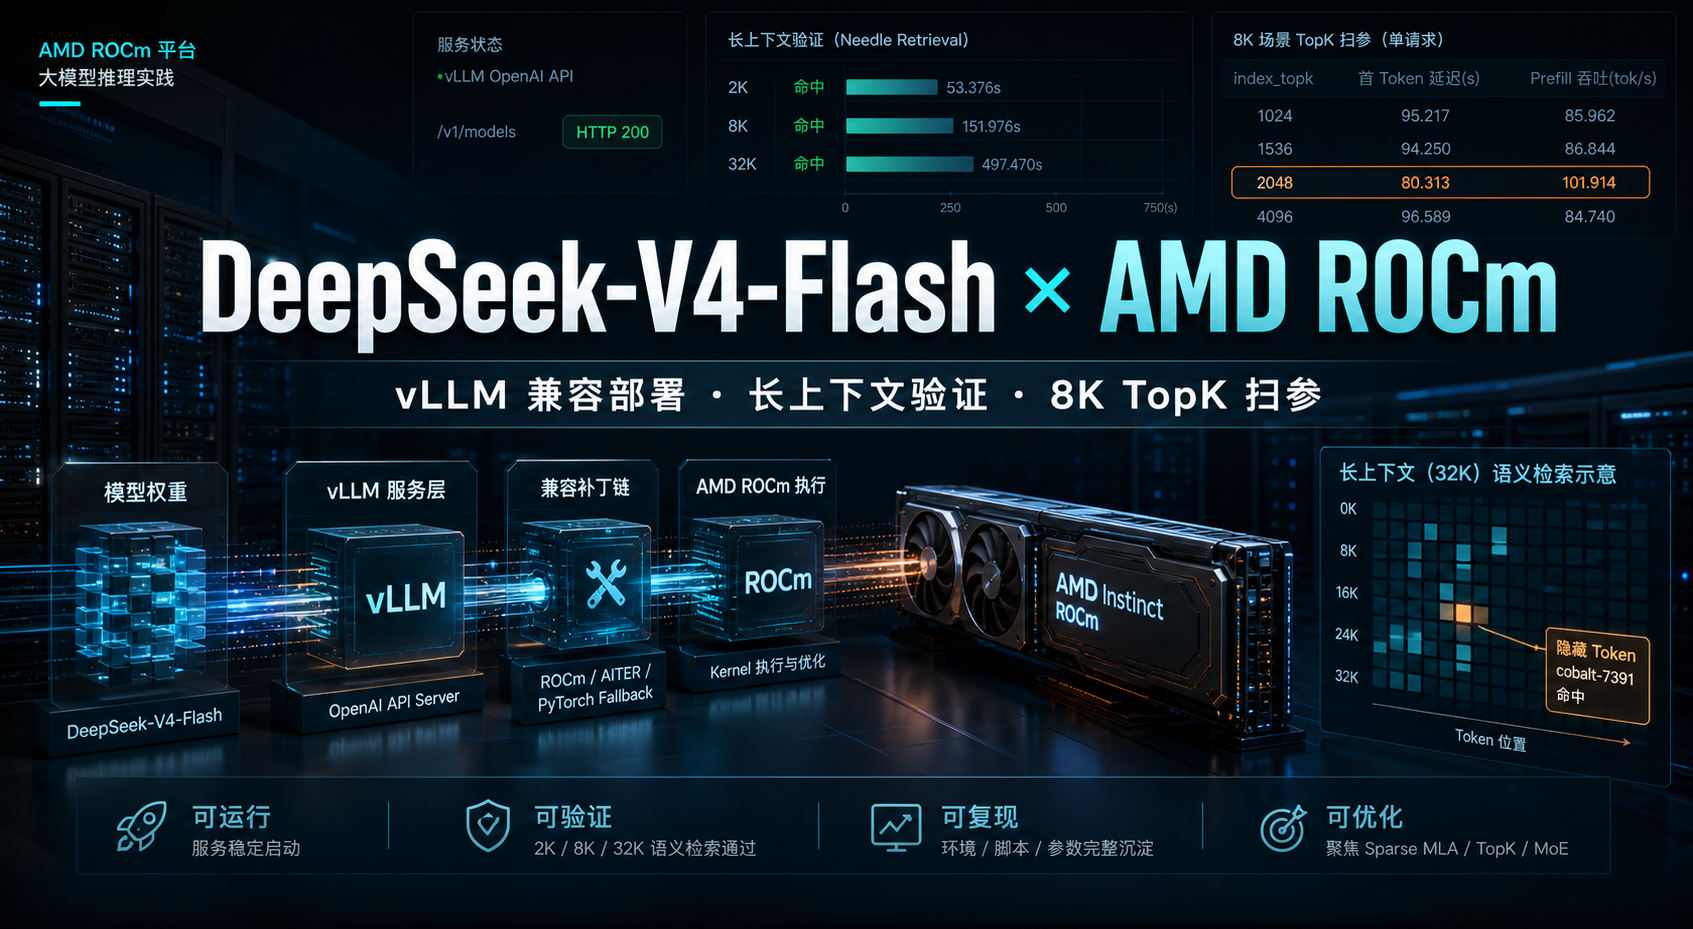
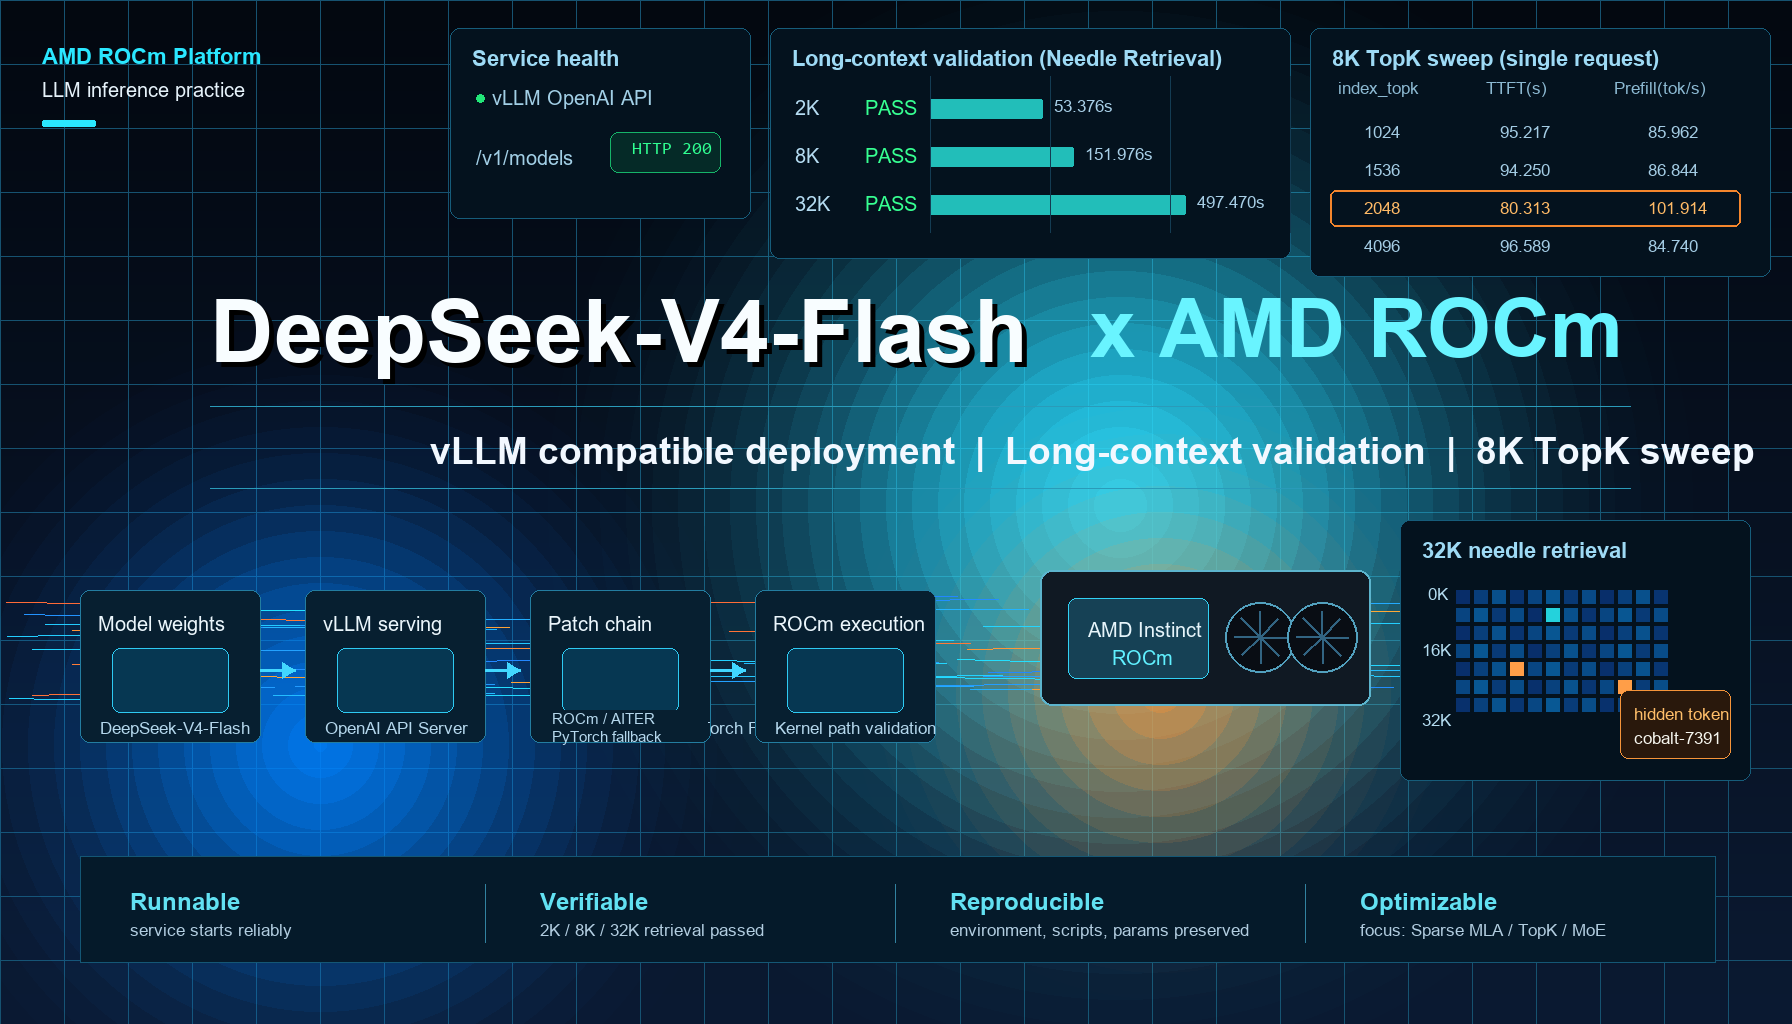
Add English cover and preserve Chinese cover

diff --git a/docs/zh.md b/docs/zh.md
@@ -4,7 +4,7 @@
 
 [English version](./)
 
-![封面](assets/cover.png)
+![封面](assets/cover_zh.png)
 
 ## 摘要
 
@@ -53,4 +53,3 @@ vLLM 部署的工程实践。项目并不宣称实现了新的上游 ROCm 后端
 完整 Notebook、脚本、CSV 数据、图表和报告见 GitHub 仓库：
 
 https://github.com/lyydfys/deepseek-v4-flash-rocm-vllm-repro
-

diff --git a/README.zh-CN.md b/README.zh-CN.md
@@ -13,7 +13,7 @@ baseline。
 - 8K `index_topk` 性能扫参；
 - 负例记录、瓶颈分析和后续 ROCm kernel 优化方向。
 
-![封面](assets/cover.png)
+![封面](assets/cover_zh.png)
 
 ## 公开链接
 